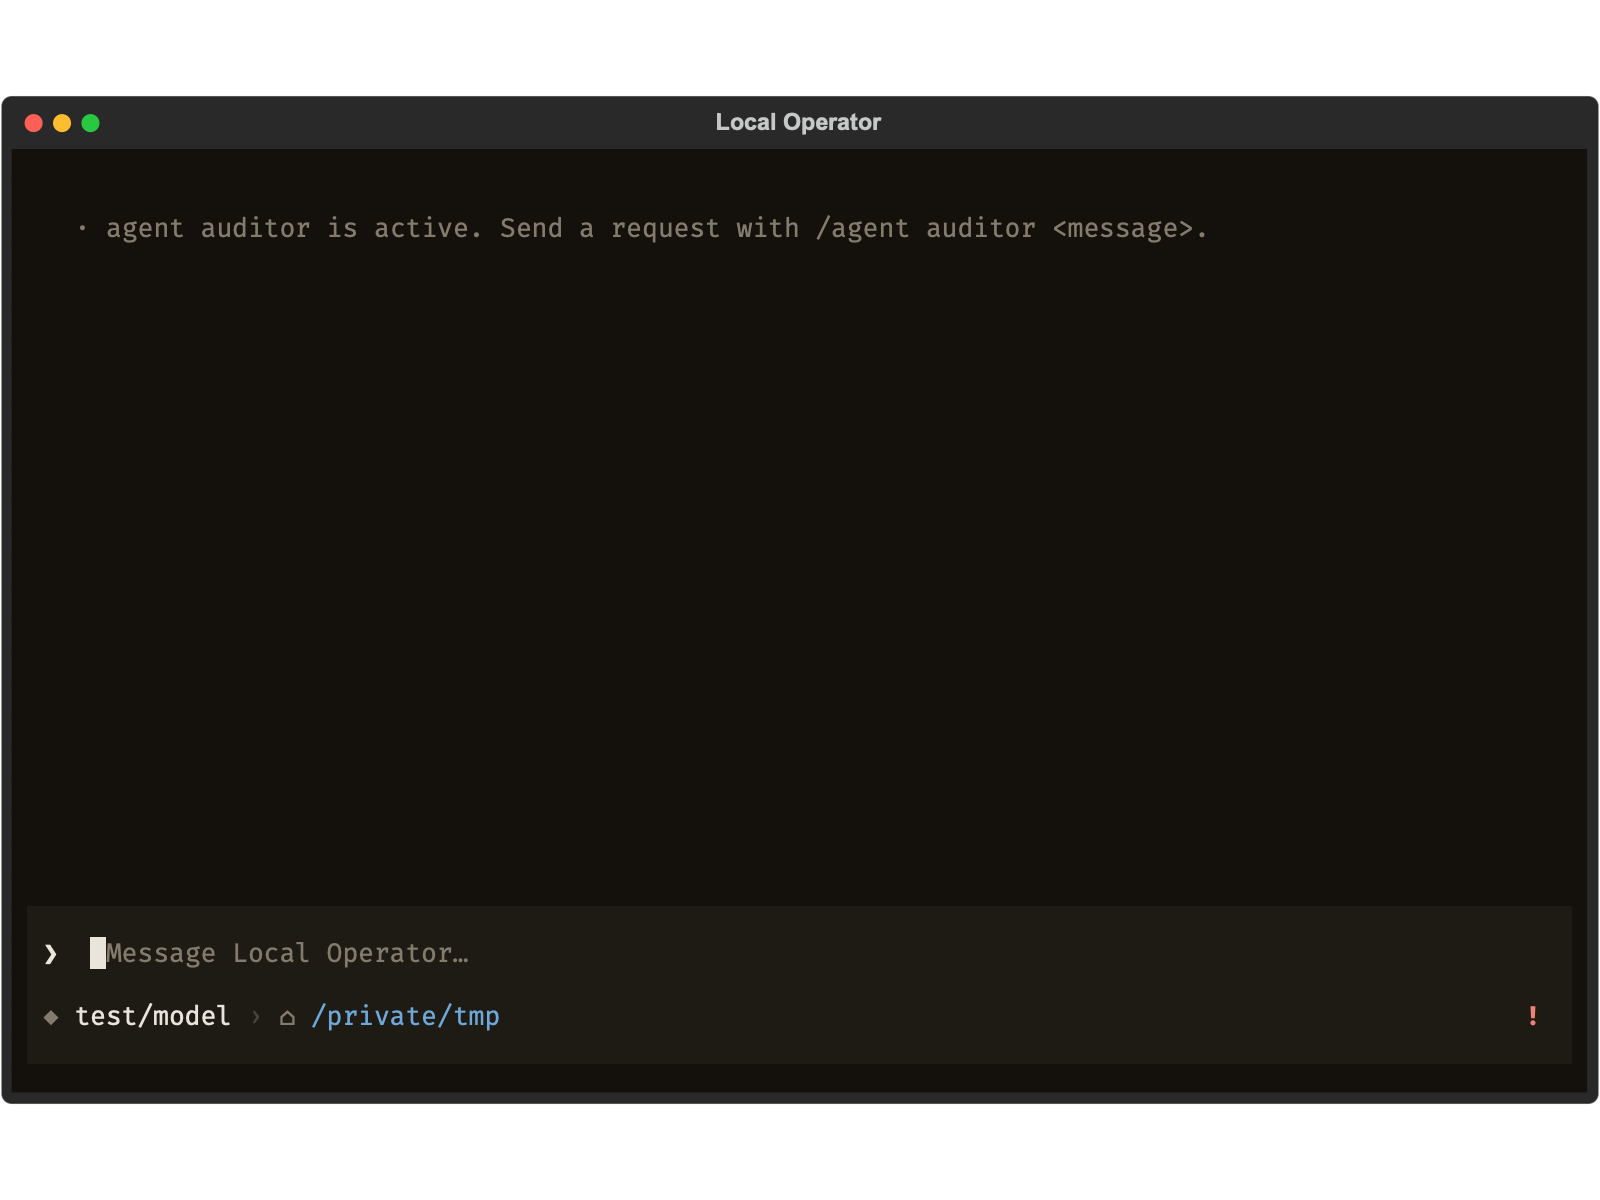
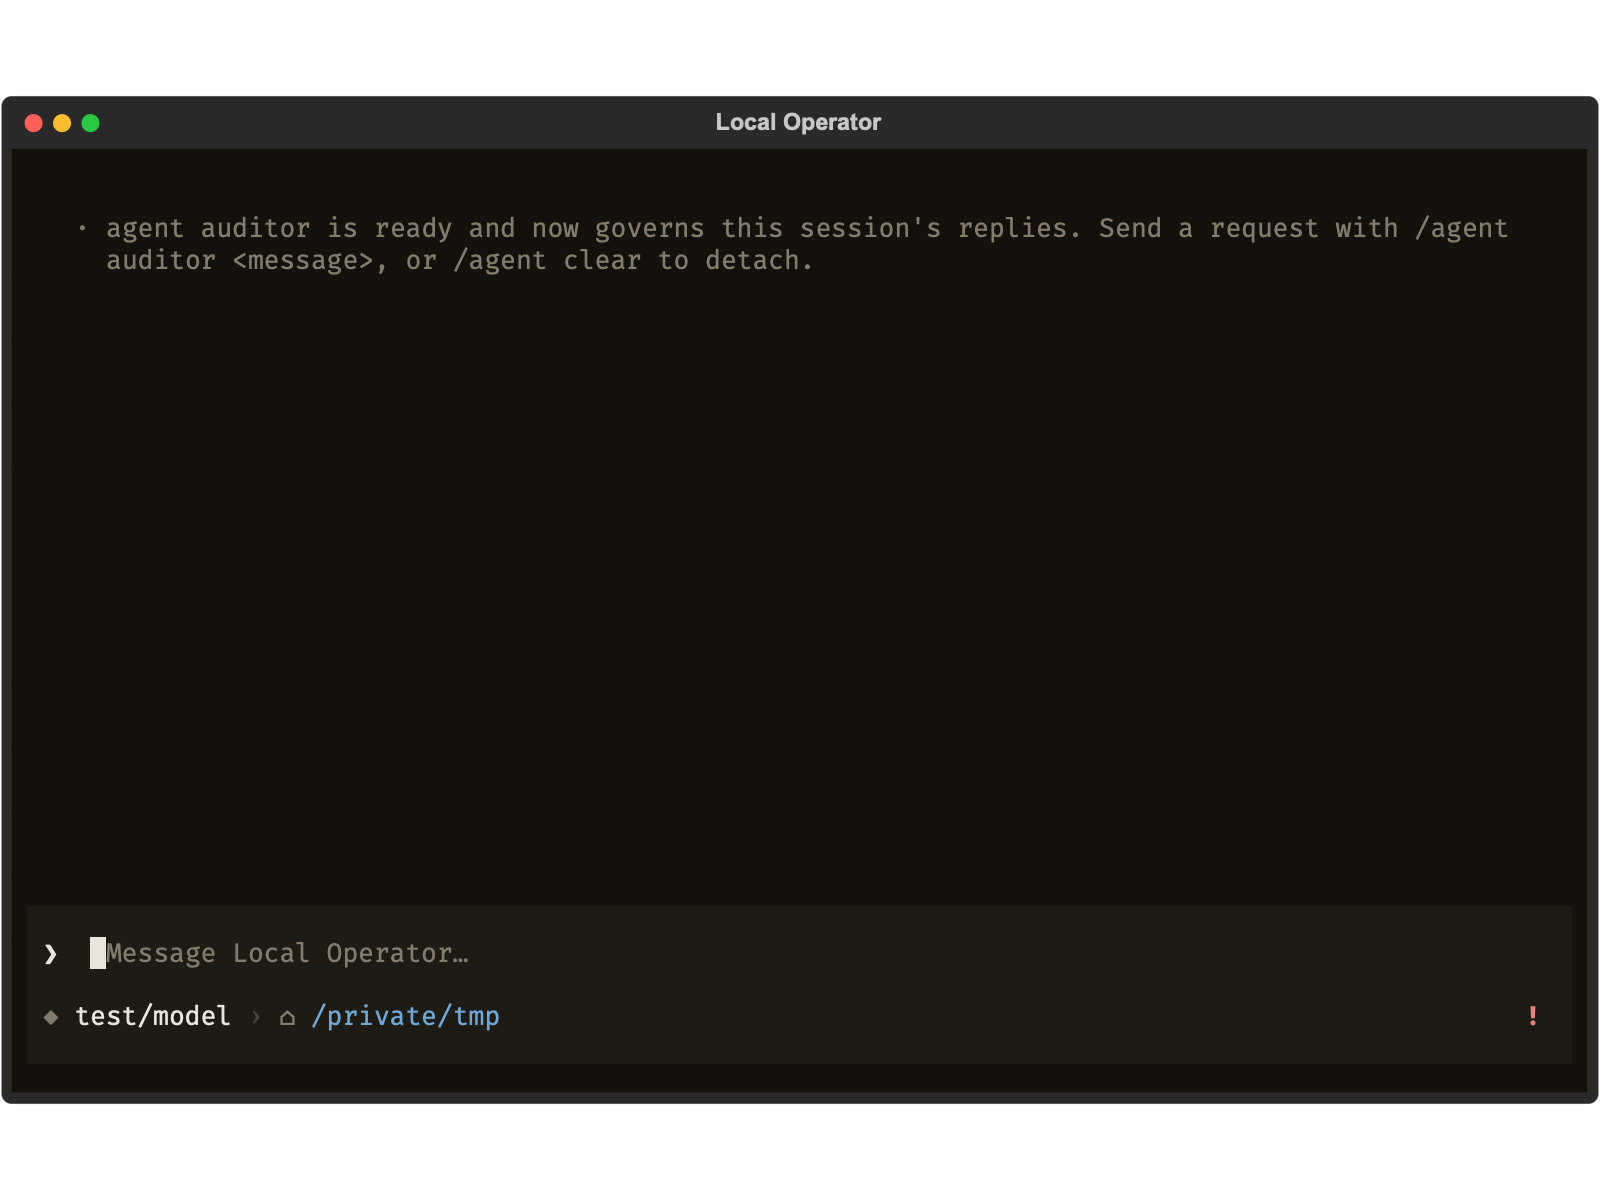
feat(tui): state /agent attach governs the session and align with /team
U3/U4. The attach notice under-described the effect ("is active") and diverged
from /team's wording. It now states the profile governs this session's later
replies and borrows /team's "ready" idiom so the two surfaces read as siblings,
and it points at /agent clear to detach. Plain wording, no em dashes.

Bare attach: "agent <name> is ready and now governs this session's replies.
Send a request with /agent <name> <message>, or /agent clear to detach."
Attach with a message: "agent <name> now governs this session's replies."

Evidence frames re-captured (listing with the Detach footer, the new attach
copy, and the /agent clear detach notice) under
docs/evidence/agent-slash-command/.

Changed region(s): [[0.2188, 0.185, 0.9375, 0.2467], [0.1562, 0.2158, 0.2188, 0.2467], [0.0625, 0.2158, 0.0938, 0.2467]]

diff --git a/local_operator/tui/app.py b/local_operator/tui/app.py
@@ -3027,14 +3027,21 @@ class OperatorApp(App[None]):
                 )
             return
         if not request:
-            notice(f"agent {resolved} is active. Send a request with /agent {resolved} <message>.")
+            # U3/U4: state the actual EFFECT (the profile governs this session's
+            # later turns, not merely "is active"), and borrow /team's "ready"
+            # idiom so the two surfaces read as siblings. Plain wording, no
+            # em dashes. /agent clear detaches it again.
+            notice(
+                f"agent {resolved} is ready and now governs this session's replies. "
+                f"Send a request with /agent {resolved} <message>, or /agent clear to detach."
+            )
             return
         # `_submit_prompt` writes the user row (the message is what the newly
         # attached profile is told) and starts the turn — same non-echo
         # reasoning as `_cmd_team`: the message text is the transcript
         # subject, and a second row restating `/agent name …` would be the
         # duplication the echo policy exists to prevent.
-        notice(f"agent {resolved} is active.")
+        notice(f"agent {resolved} now governs this session's replies.")
         self._submit_prompt(request)
 
     # -- MCP status ---------------------------------------------------------

diff --git a/tests/unit/tui/test_slash_echo.py b/tests/unit/tui/test_slash_echo.py
@@ -374,7 +374,10 @@ async def test_agent_name_alone_attaches_without_a_turn() -> None:
     assert session.attached_agents == ["auditor"]
     assert session.prompts == []
     assert rows == [], rows
-    assert any("agent auditor is active" in n for n in notices), notices
+    # U3/U4: the notice states the profile now governs the session and points
+    # at the detach verb, rather than the thinner "is active".
+    assert any("auditor is ready and now governs" in n for n in notices), notices
+    assert any("/agent clear" in n for n in notices), notices
 
 
 @pytest.mark.asyncio
@@ -475,7 +478,8 @@ async def test_agent_with_no_instructions_says_nothing_was_applied() -> None:
     ), bare_notices
     # With a message: still sent, but the notice does not claim a persona.
     assert session.prompts == ["do the thing"]
-    assert not any("hollow-role is active" in n for n in notices), notices
+    assert not any("hollow-role now governs" in n for n in notices), notices
+    assert not any("hollow-role is ready" in n for n in notices), notices
 
 
 @pytest.mark.asyncio
